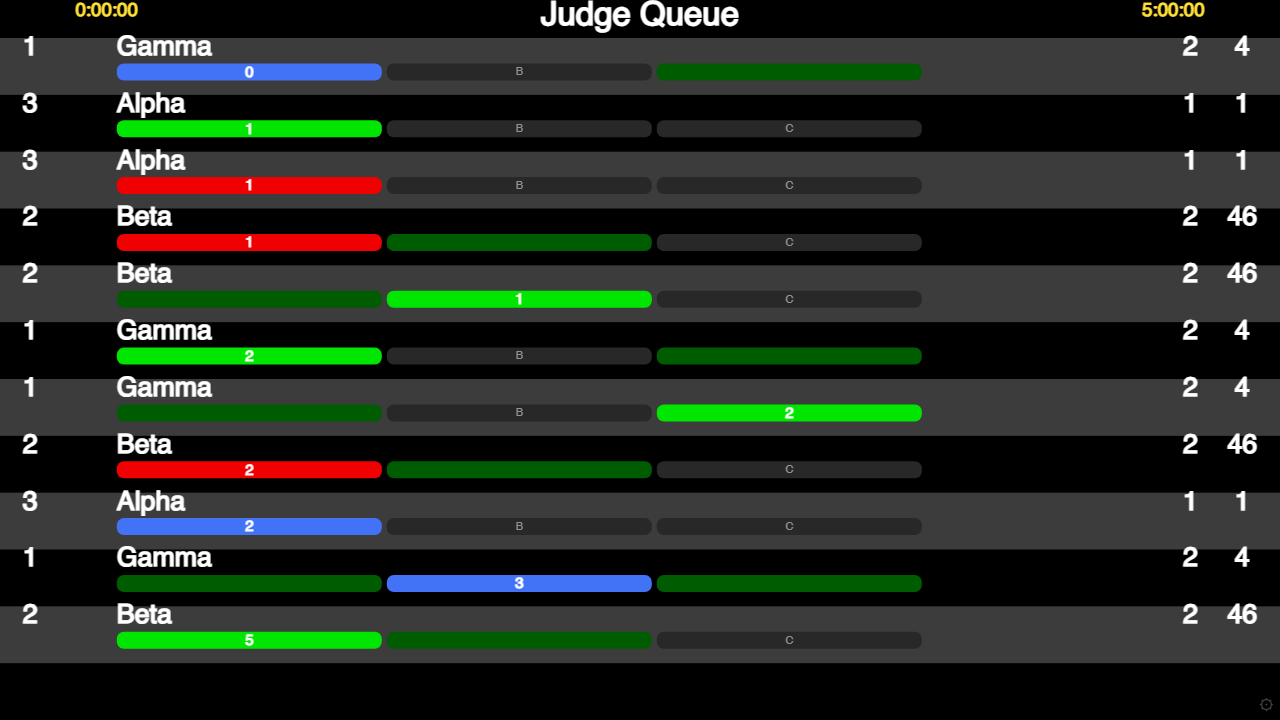
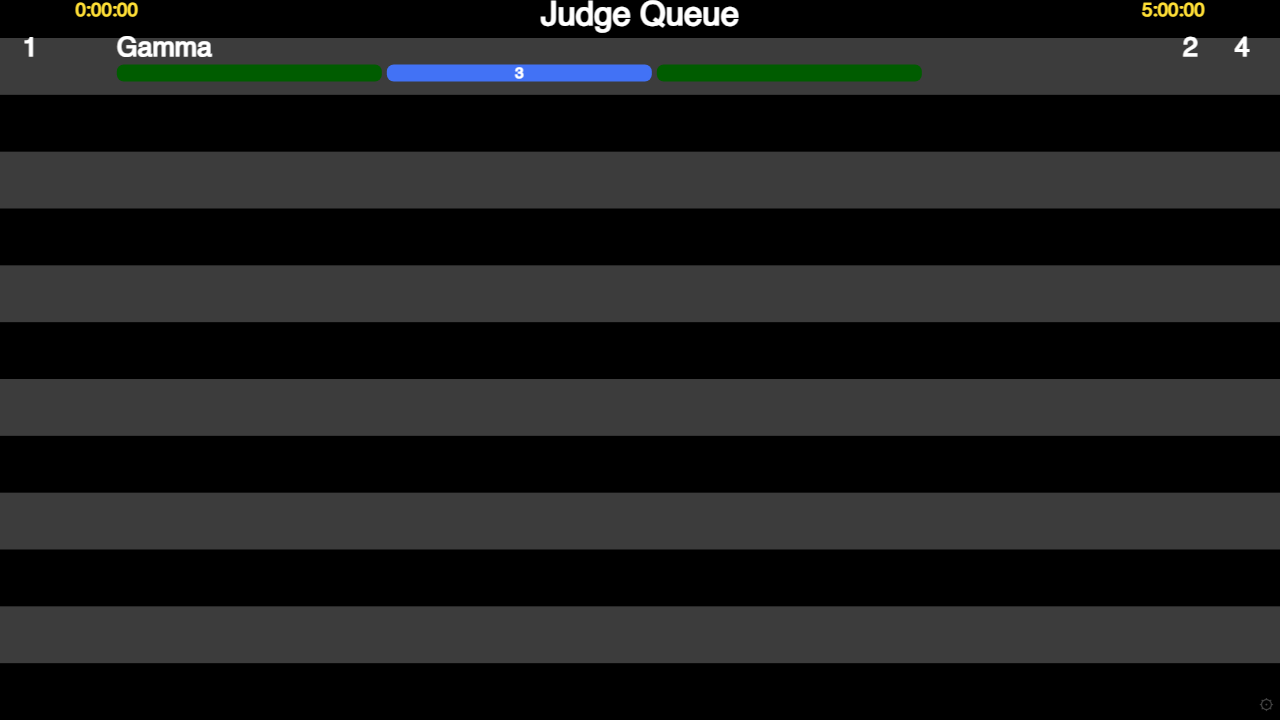
fix: 判题队列不再把已判题的历史提交塞进队列（源码里它们会立刻滑出）

diff --git a/src/app.js b/src/app.js
@@ -320,7 +320,10 @@ function renderJudge(pane) {
 
   // 首次：用最近提交把队列摆好（不放动画）
   if (!judgePrimed && M.submissions.size > 0) {
+    const judgedIds = new Set();
+    for (const j of M.judgements.values()) judgedIds.add(j.submission_id);
     const list = [...M.submissions.values()]
+      .filter(s => !judgedIds.has(s.id))                 // 只留待判的，已判的进队列会立刻滑出
       .sort((x, y) => rel2sec(x.contest_time) - rel2sec(y.contest_time))
       .slice(-12);
     list.forEach((sub, i) => {
